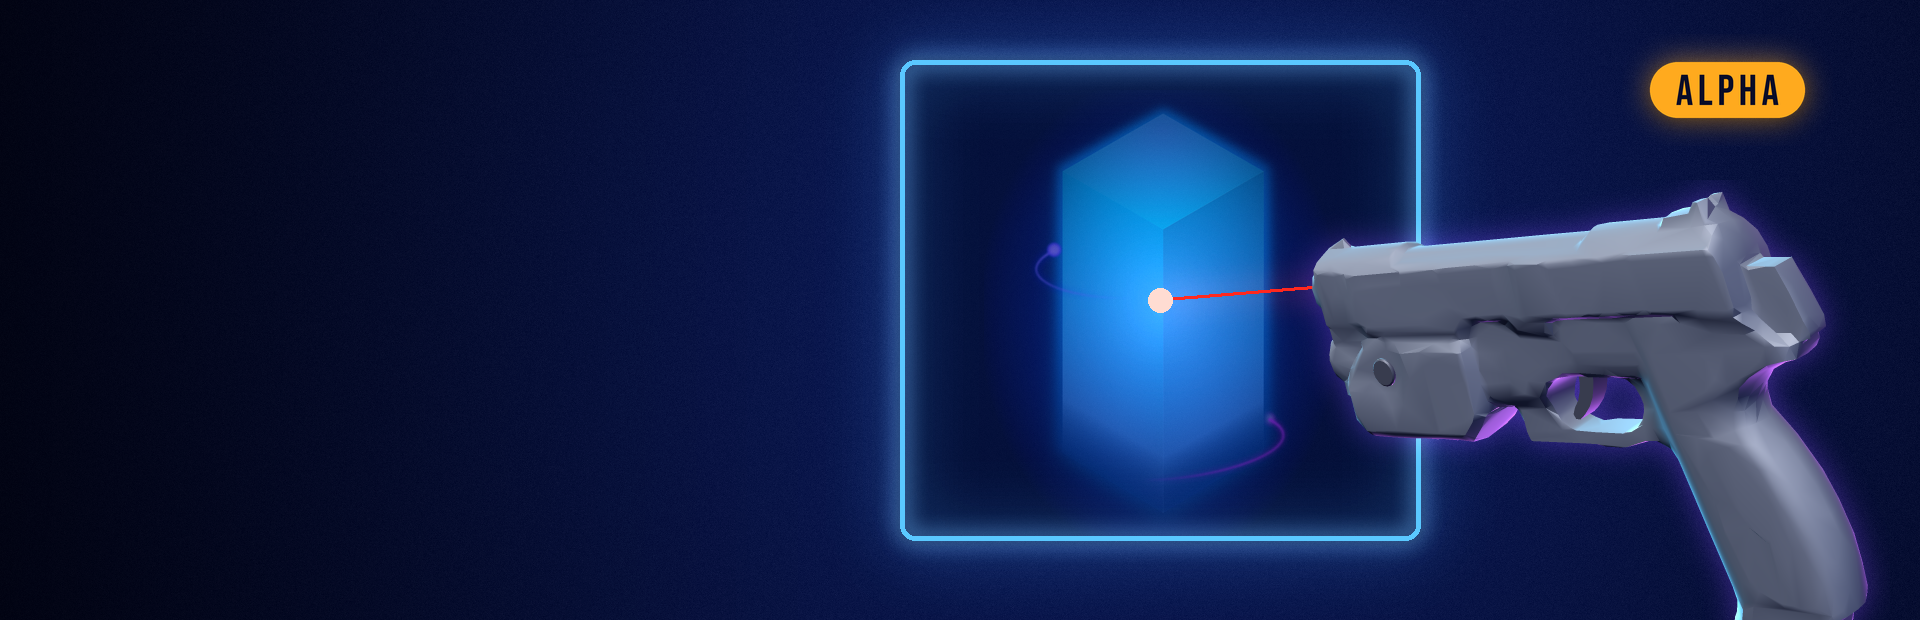
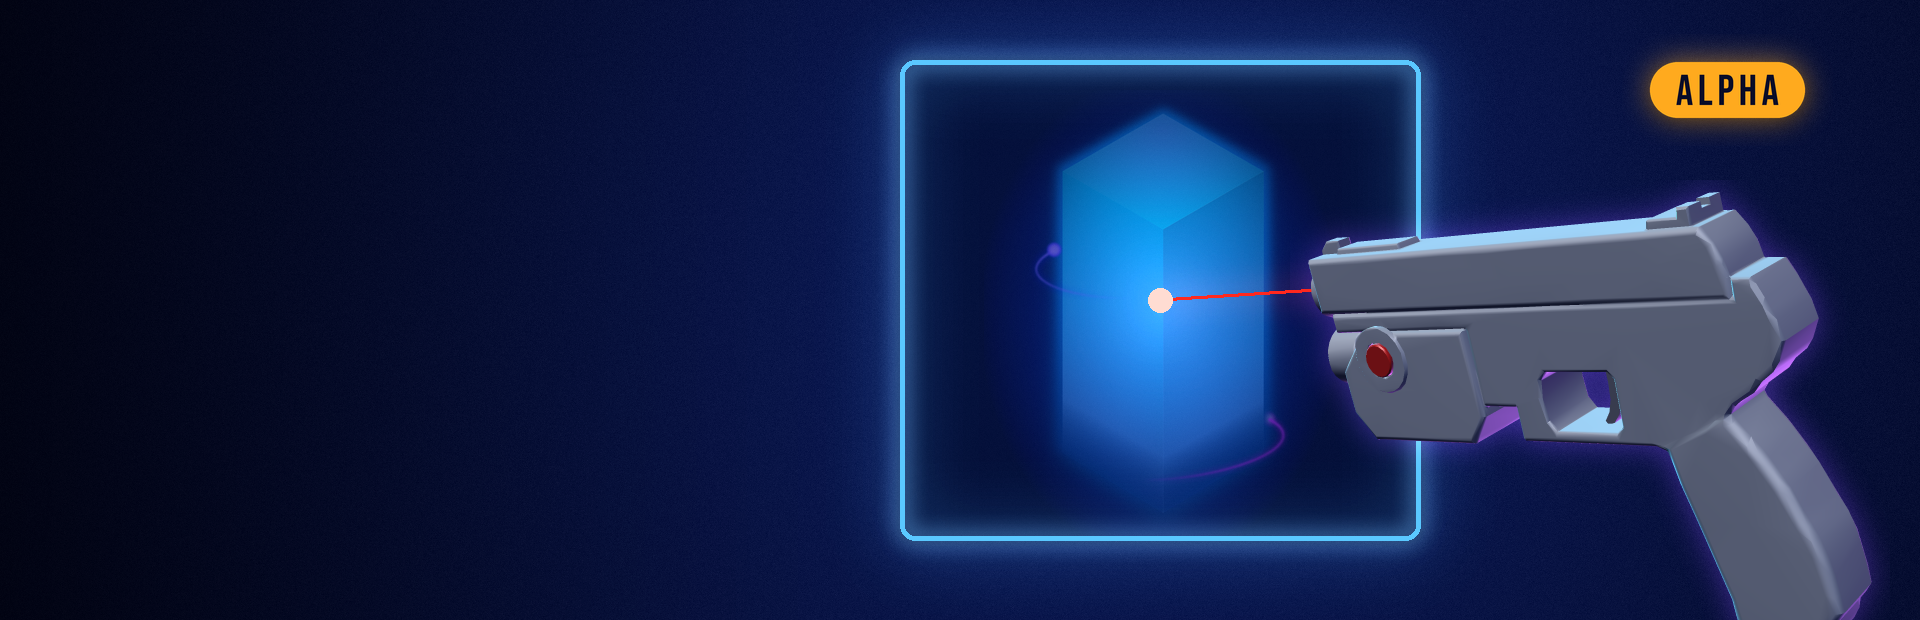
Steam art: re-rendered with our own light gun model
The capsule, wide capsule, hero and icon, in both the Alpha set
(assets/steam/) and the set for after Alpha (assets/steam-final/), and the
installer page's hero.jpg and favicon.png, are rendered again from
assets/lightgun.glb, the PS1 gun drawn from photos: the earlier images
showed the scan-based model. Each shot re-solves its camera roll from the
new muzzle, so the beam still meets the aim dot. gun.py shades the model's
red `button` material. The logos have no gun and are unchanged.

Changed region(s): [[0.6875, 0.3065, 1.0, 0.9806], [0.9062, 0.9806, 0.9688, 1.0], [0.625, 0.4597, 0.6875, 0.4903]]

diff --git a/tools/steam-art/gun.py b/tools/steam-art/gun.py
@@ -47,8 +47,8 @@ def camera(yaw, pitch, roll=0.0):
     return Rz @ Rx @ Ry @ side
 
 ALBEDO = {'shell': np.array([0.46, 0.47, 0.5]), 'trim': np.array([0.3, 0.3, 0.33]),
-          'lens': np.array([0.3, 0.02, 0.02])}
-SPEC = {'shell': (0.22, 10), 'trim': (0.4, 30), 'lens': (1.0, 90)}
+          'lens': np.array([0.3, 0.02, 0.02]), 'button': np.array([0.62, 0.07, 0.07])}
+SPEC = {'shell': (0.22, 10), 'trim': (0.4, 30), 'lens': (1.0, 90), 'button': (0.5, 40)}
 def _unit(v): v = np.array(v, float); return v / np.linalg.norm(v)
 KEY = _unit([-0.35, 0.7, 0.75]);    KEY_C = np.array([0.95, 0.97, 1.0]) * 1.5
 FILL = _unit([0.6, -0.3, 0.75]);   FILL_C = np.array([0.35, 0.45, 0.8]) * 0.5

diff --git a/tools/steam-art/README.md b/tools/steam-art/README.md
@@ -30,7 +30,7 @@ Steam keys a non-Steam shortcut's artwork by the shortcut's app ID (`<id>`, the 
 
 - **ARMSX2 pillar.** Cut from the ARMSX2 app icon (`external/armsx2/platforms/ios/app/src/main/assets/app_icons/icon.png`, GPLv3 with the ARMSX2 sources) and added onto the background, so its glow blends in.
 - **Title font.** Bebas Neue, shipped by the ARMSX2 Android app (`res/font/bebas_neue.ttf`, SIL Open Font License 1.1). Only rendered text is in the images; the font file is not copied.
-- **Light gun.** `assets/lightgun.glb`, rendered by `gun.py`. This is a numpy rasteriser with perspective, cyan and violet rim lights in the ARMSX2 palette, and emissive lenses with bloom. Each scene picks the camera roll so the bore points at the red aim dot in the window (`solve_shot`). The images now in `assets/steam/` and `assets/steam-final/` were rendered from the earlier, scan-based model; run `make_art.py` again to render them from our own model.
+- **Light gun.** `assets/lightgun.glb`, rendered by `gun.py`. This is a numpy rasteriser with perspective, cyan and violet rim lights in the ARMSX2 palette, and emissive lenses with bloom. Each scene picks the camera roll so the bore points at the red aim dot in the window (`solve_shot`). The model is our own, drawn from photos (see [`tools/lightgun/README.md`](../lightgun/README.md)), and so are the renders of it here.
 - **The window.** The glowing frame stands for the volumetric window the game is shown in on the Frame.
 - **Alpha badge.** An amber pill reading "ALPHA" in Bebas Neue, with an amber halo (`alpha_badge`, `put_badge`). It goes in the top right corner of the capsule, the wide capsule, the hero (set in from the edges so Steam's cropping keeps it) and the icon, and under the end of "STEAM FRAME EDITION" in the logo. The `ALPHA` constant at the top of `make_art.py` turns it on.
 
